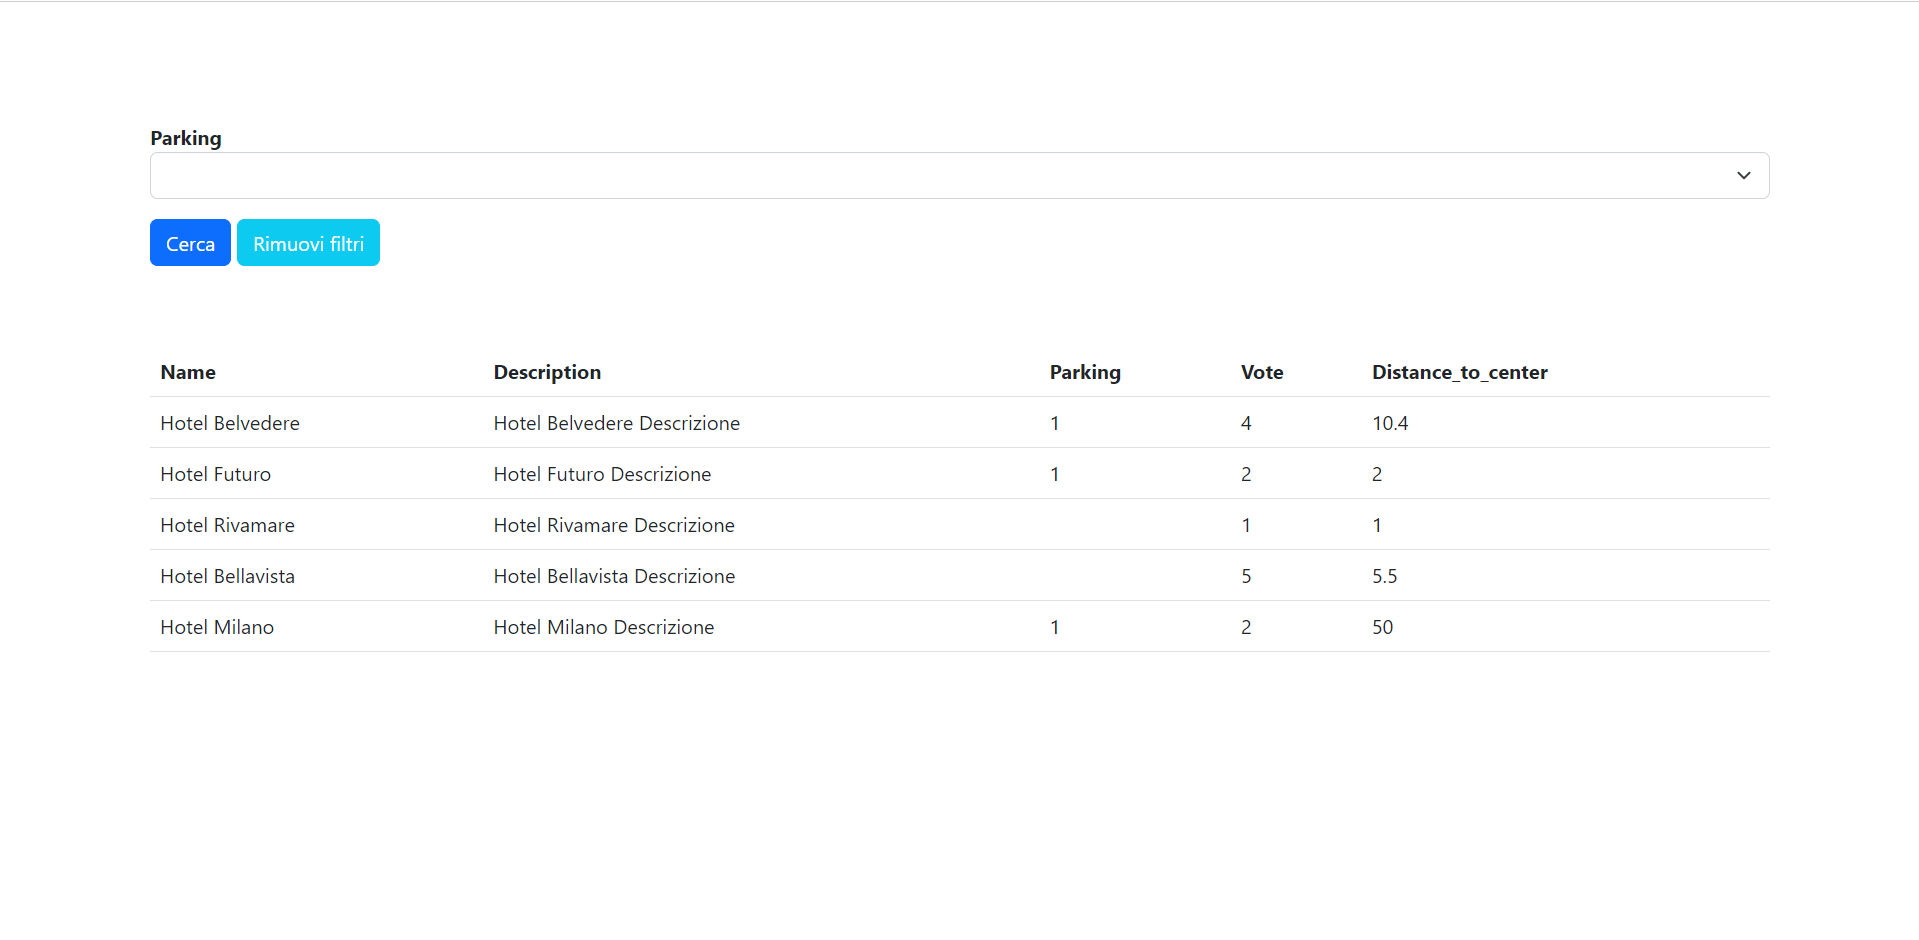
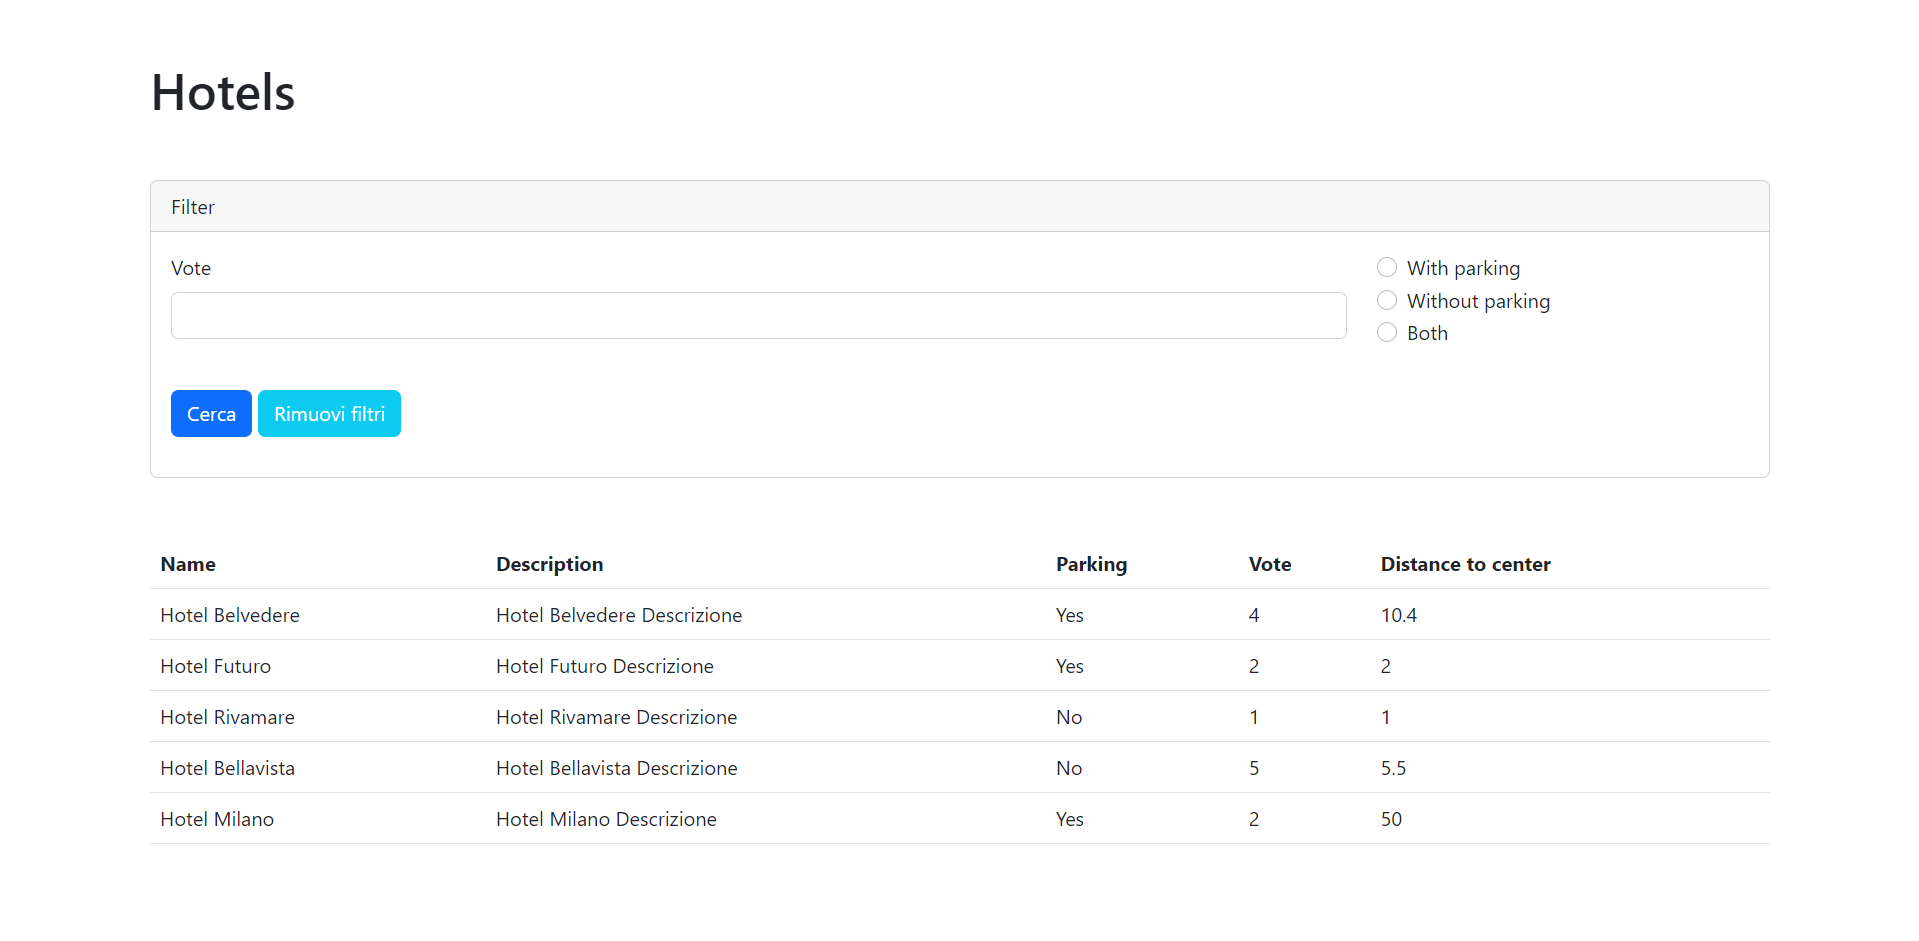
fixes code + add bonus 2

diff --git a/index.php b/index.php
@@ -40,22 +40,35 @@
 
     ];
 
-    // Creo Array con le varie caratteristiche per stamparle nella table
-    foreach ($hotels as $hotel_list) {
-    };
+    $filter_parking = $_GET["filter_parking"] ?? "both";
+    $filter_vote = $_GET["input_vote"] ?? "";
+    $filtered_hotels = $hotels;
 
-    $hotel_data = array_keys($hotel_list);
+    if($filter_parking !== "both") {
+        $temp_hotels = [];
+        foreach ($filtered_hotels as $hotel) {
+            if ($filter_parking == $hotel["parking"]) {
+                $temp_hotels[] = $hotel;
+            }
+        }
+        $filtered_hotels = $temp_hotels;
+    }
 
-    // Bonus 1:
-    if (isset($_GET["park"])) {
-        $select_park = $_GET["park"];
-    } else {
-        $select_park = "";
-    };
+    if(!empty($filter_vote)) {
+        $temp_hotels = [];
+        foreach ($filtered_hotels as $hotel) {
+            if ($hotel["vote"] >= $filter_vote) {
+                $temp_hotels[] = $hotel;
+            }
+        }
+        $filtered_hotels = $temp_hotels;
+    }
+
 ?>
 
 <!DOCTYPE html>
 <html lang="en">
+
 <head>
     <meta charset="UTF-8">
     <meta http-equiv="X-UA-Compatible" content="IE=edge">
@@ -63,81 +76,97 @@
     <title>PHP Hotel</title>
 
     <!-- BOOTSTRAP -->
-    <link href="https://cdn.jsdelivr.net/npm/bootstrap@5.2.3/dist/css/bootstrap.min.css" rel="stylesheet" integrity="sha384-rbsA2VBKQhggwzxH7pPCaAqO46MgnOM80zW1RWuH61DGLwZJEdK2Kadq2F9CUG65" crossorigin="anonymous">
+    <link href="https://cdn.jsdelivr.net/npm/bootstrap@5.2.3/dist/css/bootstrap.min.css" rel="stylesheet"
+        integrity="sha384-rbsA2VBKQhggwzxH7pPCaAqO46MgnOM80zW1RWuH61DGLwZJEdK2Kadq2F9CUG65" crossorigin="anonymous">
 
 </head>
+
 <body>
-    <div class="container pt-5">
-        <!-- FORM -->
-        <form method="GET" action="" class="py-5">
-            <label for="park" class="fw-bold">Parking</label>
-            <select class="form-select" name="park" id="park">
-                <option></option>
-                <option value="yes">Yes</option>
-                <option value="no">No</option>
-            </select>
-            <button class="btn btn-primary my-3">Cerca</button>
-            <button type="button" class="btn btn-info my-3">
-                <a href="./index.php" class="text-decoration-none text-white">
-                    Rimuovi filtri
-                </a>
-            </button>
-        </form>
+    <div class="container">
+        <h1 class="my-5">Hotels</h1>
+        <section class="row my-5">
+
+
+            <div class="col-12">
+                <div class="card">
+                    <div class="card-header">
+                        Filter
+                    </div>
+                    <div class="card-body">
+                        <!-- FORM -->
+                        <form method="GET" class="row">
+                            <div class="col-9 mb-3">
+                                <label for="input_vote" class="form-label">Vote</label>
+                                <input type="number" class="form-control" id="input_vote" name="input_vote" min="0"
+                                    max="5" value="<?= $filter_vote ?>">
+                            </div>
+
+                            <div class="col-3 mb-3">
+                                <div class="form-check">
+                                    <input class="form-check-input" type="radio" value="1" name="filter_parking"
+                                        id="filter_parking-1">
+                                    <label class="form-check-label" for="filter_parking-1">
+                                        With parking
+                                    </label>
+                                </div>
+
+                                <div class="form-check">
+                                    <input class="form-check-input" type="radio" value="0" name="filter_parking"
+                                        id="filter_parking-0">
+                                    <label class="form-check-label" for="filter_parking-0">
+                                        Without parking
+                                    </label>
+                                </div>
+
+                                <div class="form-check">
+                                    <input class="form-check-input" type="radio" value="both" name="filter_parking"
+                                        id="filter_parking-2">
+                                    <label class="form-check-label" for="filter_parking-2">
+                                        Both
+                                    </label>
+                                </div>
+                            </div>
+
+                            <div class="col-12">
+                                <button class="btn btn-primary my-3">Cerca</button>
+                                <button type="button" class="btn btn-info my-3">
+                                    <a href="./index.php" class="text-decoration-none text-white">
+                                        Rimuovi filtri
+                                    </a>
+                                </button>
+                            </div>
+                        </form>
+                    </div>
+                </div>
+            </div>
+
+        </section>
 
         <!-- RESULT TABLE -->
-            <table class="table">
-                <thead>
-                    <tr>
-                        <?php foreach($hotel_data as $single_data) : ?>
-                            <th scope="col"> <?= ucfirst($single_data) ?> </th>
-                        <?php endforeach ?>
-                    </tr>
-                </thead>
-                <!-- Se selezionato input parcheggio "yes" -->
-                <tbody>
-                    <?php foreach($hotels as $hotel_list) : ?>
-                        <?php if($select_park === "yes" && ($hotel_list["parking"]) === true ) : ?>
-                            <tr>
-                                <?php foreach($hotel_list as $hotel_feature) : ?>
-                                    <td> <?= $hotel_feature ?> </td>
-                                <?php endforeach ?>
-                            </tr>
-                        <?php endif ?>
-                    <?php endforeach ?>
-                </tbody>
+        <table class="table">
+            <thead>
+                <tr>
+                    <th scope="col">Name</th>
+                    <th scope="col">Description</th>
+                    <th scope="col">Parking</th>
+                    <th scope="col">Vote</th>
+                    <th scope="col">Distance to center</th>
+                </tr>
+            </thead>
 
-                <!-- Se selezionato input parcheggio "no" -->
-                <tbody>
-                    <?php foreach($hotels as $hotel_list) : ?>
-                        <?php if($select_park === "no" && ($hotel_list["parking"]) === false ) : ?>
-                            <tr>
-                                <?php foreach($hotel_list as $hotel_feature) : ?>
-                                    <td> <?= $hotel_feature ?> </td>
-                                <?php endforeach ?>
-                            </tr>
-                        <?php endif ?>
-                    <?php endforeach ?>
-                </tbody>
-
-                <!-- Se non viene selezionato niente -->
-                <tbody>
-                    <?php foreach($hotels as $hotel_list) : ?>
-                        <?php if(empty($select_park)) : ?>
-                            <tr>
-                                <?php foreach($hotel_list as $hotel_feature) : ?>
-                                    <td> <?= $hotel_feature ?> </td>
-                                <?php endforeach ?>
-                            </tr>
-                        <?php endif ?>
-                    <?php endforeach ?>
-                </tbody>
-            </table>
+            <tbody>
+                <?php foreach($filtered_hotels as $hotel) : ?>
+                <tr>
+                    <td><?= $hotel["name"] ?></td>
+                    <td><?= $hotel["description"] ?></td>
+                    <td><?= $hotel["parking"] == 1 ? "Yes" : "No" ?></td>
+                    <td><?= $hotel["vote"] ?></td>
+                    <td><?= $hotel["distance_to_center"] ?></td>
+                </tr>
+                <?php endforeach; ?>
+            </tbody>
+        </table>
     </div>
 </body>
+
 </html>
-
-
-<!-- if(!empty($select_park) && $select_park === "yes") -->
-
-
-

diff --git a/README.md b/README.md
@@ -1,5 +1,7 @@
 # PHP HOTEL
 
+> Ricerca Hotel con possibilità di aggiungere filtri
+
 ![Screenshot](./img/Screenshot_1.png);
 
 ## DESCRIZIONE
@@ -16,8 +18,9 @@
 ## Bonus:
 
 1. Aggiungere un form ad inizio pagina che tramite una richiesta GET permetta di filtrare gli hotel che hanno un parcheggio.
-![Screenshot](./img/Screenshot_bonus_1.png);
-<!-- 2. Aggiungere un secondo campo al form che permetta di filtrare gli hotel per voto (es. inserisco 3 ed ottengo tutti gli hotel che hanno un voto di tre stelle o superiore)
+   ![Screenshot](./img/Screenshot_bonus_1.png);
+2. Aggiungere un secondo campo al form che permetta di filtrare gli hotel per voto (es. inserisco 3 ed ottengo tutti gli hotel che hanno un voto di tre stelle o superiore)
    NOTA: deve essere possibile utilizzare entrambi i filtri contemporaneamente (es. ottenere una lista con hotel che dispongono di parcheggio e che hanno un voto di tre stelle o superiore)
+   ![Screenshot](./img/Screenshot_bonus_2.png);
 
-_Se non viene specificato nessun filtro, visualizzare come in precedenza tutti gli hotel._ -->
+_Se non viene specificato nessun filtro, visualizzare come in precedenza tutti gli hotel._
